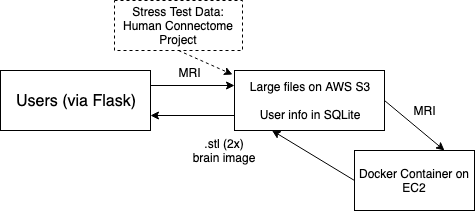
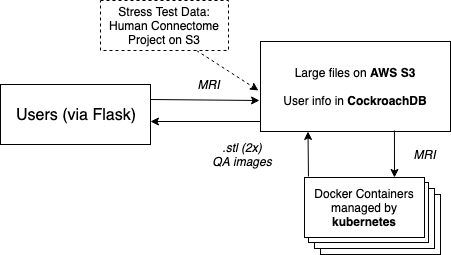
adding the platforms

Changed region(s): [[0.0, 0.1422, 1.0, 1.0], [0.2173, 0.0, 0.5277, 0.2559]]

diff --git a/README.md b/README.md
@@ -17,11 +17,15 @@ Eventually the users, but for now - Human Connectome Project data is available t
 
 ## Engineering Challenge
 
-Going from the MRI to the .stl is computationally expensive (8h on a typical workstation) - it will need to be in a separate process for each brain. I think it makes sense to launch an instance separately for each brain.
+Going from the MRI to the .stl is computationally expensive (8h on a typical workstation) - it will need to be in a separate process for each brain. I think it makes sense to launch an container separately for each brain. I can manage these containers with **kubernetes**.
 
-Also, uploading and downloading large files through a web interface may be a challenge
+The user data, information on where to find the large files, and tracking info will be stored in a distributed **CockroachDB**
+
+Also, uploading and downloading large files through a web interface may be a challenge, as well as managing simultaneous read/writes. It may be neccessary to automatically delete the large files after a certain amount of time (a week maybe), but user info will be kept in the database
 
 The MRI-to-stl process is largely solved (albeit inefficiently and somewhat unreliably). In a previous hackathon project, I built a docker container to accomplish this (https://github.com/danjonpeterson/brain_printer). You could think of this project as scaling-up and making a public-facing interface to this process.
+
+For a "stress-test", I'm going to use publicly available MRI data from the Human Connectome Project, which is conveniently available to mount as an S3 bucket. I'd like to be able to handle at least 20 brains simultaneously, with a queue system if there are any backups. 
 
 ## Business Value
 
@@ -29,7 +33,7 @@ There are multiple avenues to monetization:
 
 - Charging the user directly  
 - Advertising and/or partnering with 3D printing services  
-- Contracting with research labs for rewarding volunteers
+- Contracting with research labs for rewarding volunteers  
 
 ## Minimum Viable Product
 
@@ -40,13 +44,14 @@ The application NEEDS to:
 - Serve a link to the two R/L ~8MB .stl files
 - Store user info in a database (SQLite)
 - Give some QA info - some way to visually inspect the result
-- Handle 20 concurrent jobs in a stress-test with the HCP data
+- Handle (at least) 20 concurrent jobs in a stress-test with the HCP data
 
 ## Stretch Goals
 
-- Actually print a brain from a user (typical ~36h print time)
+- Add UI for browsing & selecting the correct scan on a DVD of MRI data
+- Actually print a brain from a remote user (typical ~36h print time)
 - Automatically delete files after some amount of time (a week?)
 - Optimize mesh file size
-- Make the database redundant and fault-tolerant over multiple nodes
 - Speed up the core process (MRI -> .stl)
-- Take some billing and address info to manage the hand-off to 3D printing services
+- Add a link to get a quote and send stl directly to 3D printing services
+- Take some address and billing info
